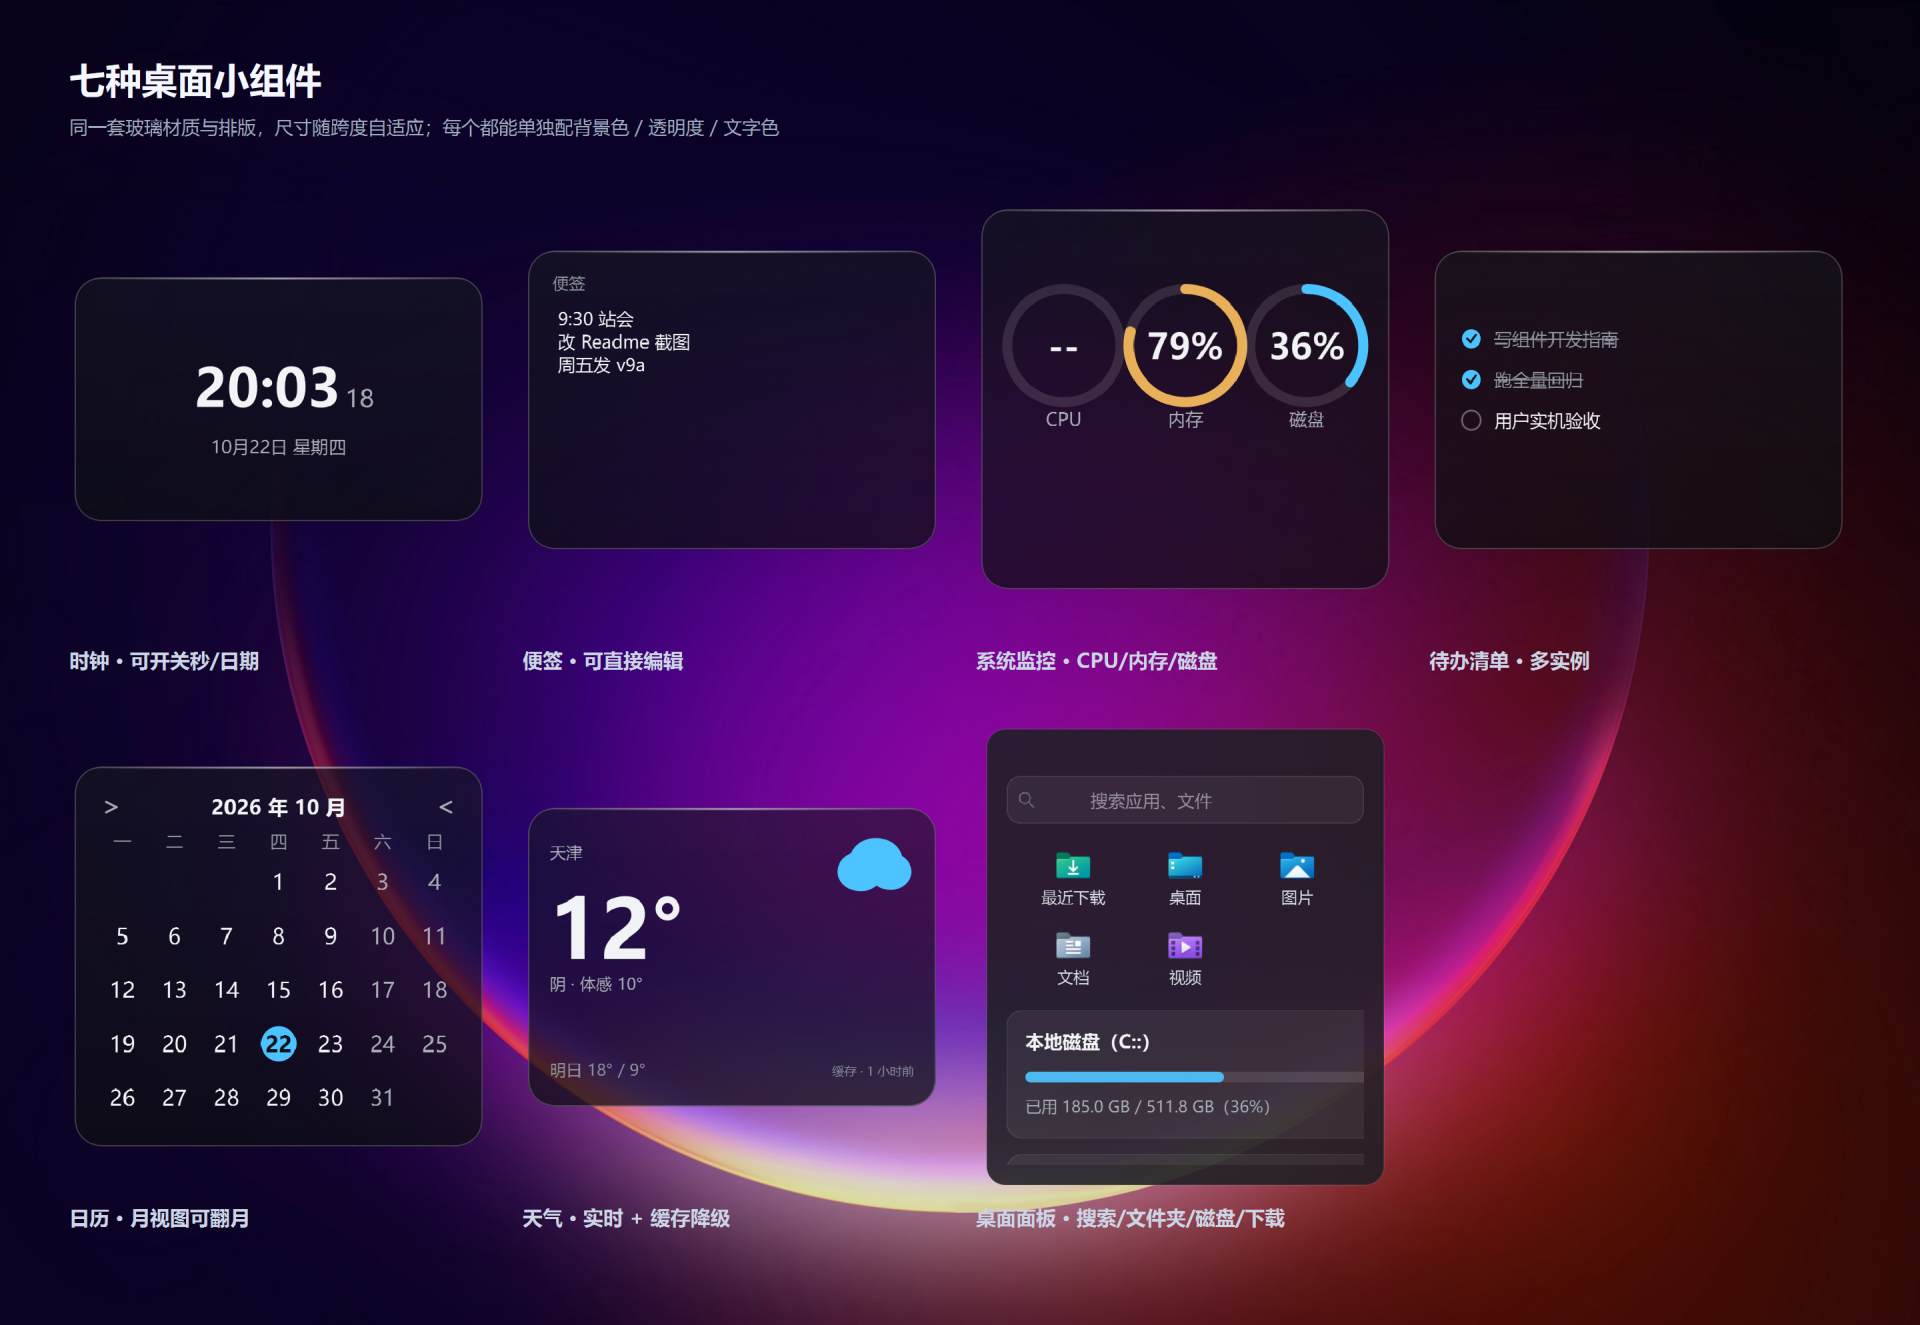
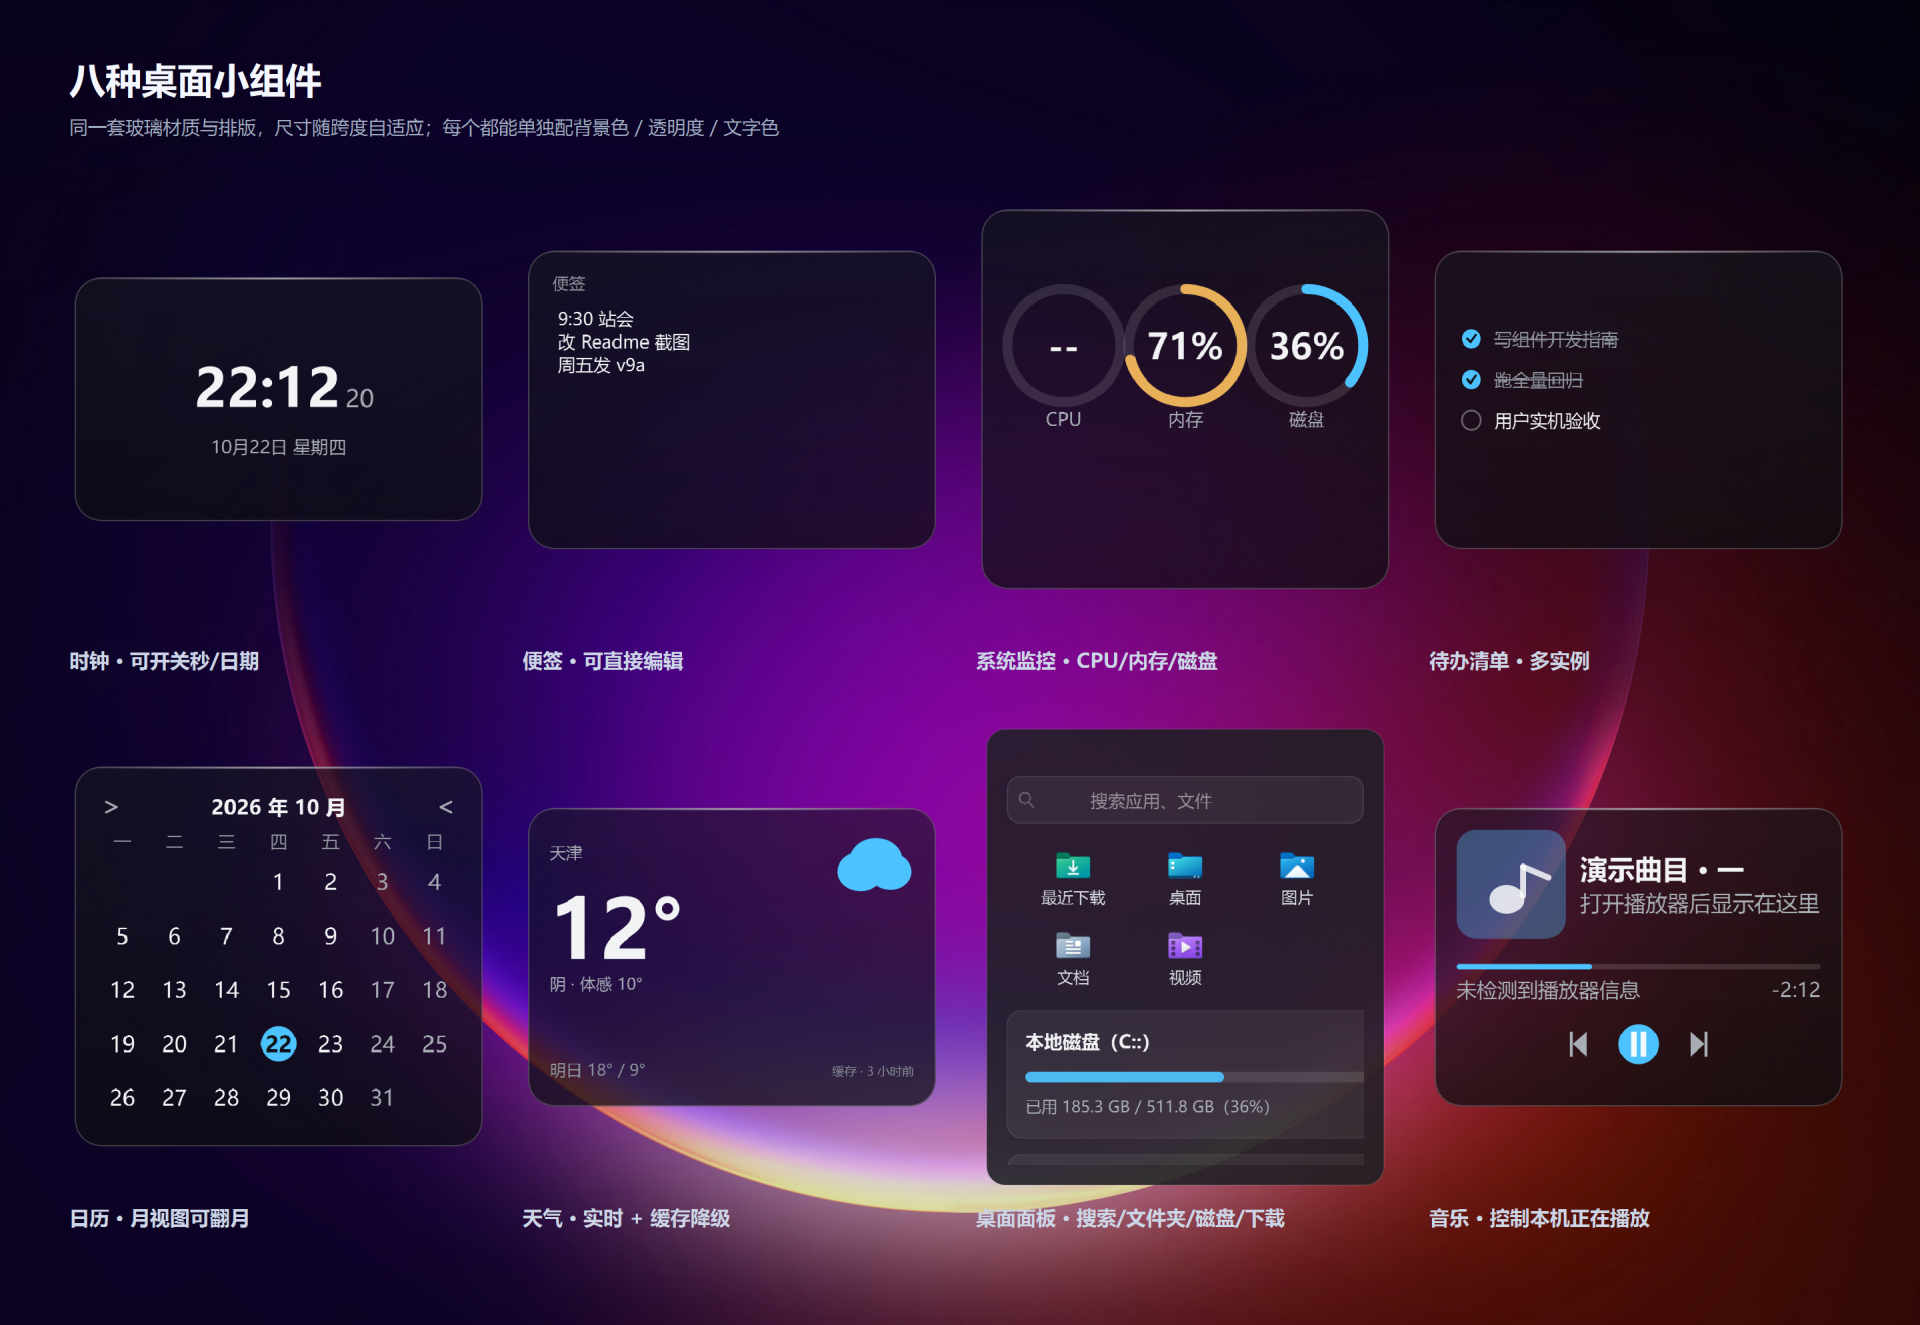
docs(v10-C2): 台账与八格全家福——SMTC 判死写进规格，02 图补第 8 格
- 指导文档 §4.2：落地记录（三轮探针表 / C 档决策 / 分层 / 三处偏离）
- 实施计划 C2 卡：落地记录 + 风险表标注「已发生」
- DEVLOG §5 续七 + 坑 #114（WinRT 槽位错 = 进程级 AV）/ #115（行高必须由 layout 交付）
- HANDOVER 页首 + README 中英：八种小组件、84 测试、目录树补 music/media_session
- 02-widgets.png 重出（4×2 满版，音乐补 78s 进度）

diff --git a/scripts/check_docs.py b/scripts/check_docs.py
@@ -246,7 +246,6 @@ TEST_REF_RX = re.compile(r"tests/(test_[A-Za-z0-9_]+\.py)")
 PLANNED_TESTS = {
     "test_i18n.py": "D3 英文适配",
     "test_storage_paths.py": "D1 改名数据目录",
-    "test_widget_music.py": "C2 音乐组件",
 }
 
 

diff --git a/README_EN.md b/README_EN.md
@@ -26,7 +26,7 @@ Despite the name, this is **far past the prototype stage**: installer, tray resi
 | 🤏 Slide-to-rearrange | Neighboring icons elastically slide aside while you drag (true spring physics curve), snap precisely to the target cell, and slide back on cancel |
 | 📂 Drag-to-merge | Drag an icon onto another to merge into a folder; folder popup uses liquid-glass material with an emergence open/close animation; members can be dragged out / removed |
 | 🖱 Batch operations | Rubber-band multi-select + whole-group dragging |
-| 🧩 Desktop widgets | Clock / Sticky notes (editable) / Desktop panel (search · quick folders · disks · recent downloads · weather) / **System monitor** (CPU · memory · disk) / **To-do list** (multi-instance) / **Calendar** (month view with remembered month) / **Weather** (live with cache fallback); supports **anchored (non-floating)** mode where widgets join the grid as first-class citizens, with drag-resize and icon mutual displacement |
+| 🧩 Desktop widgets | Clock / Sticky notes (editable) / Desktop panel (search · quick folders · disks · recent downloads · weather) / **System monitor** (CPU · memory · disk) / **To-do list** (multi-instance) / **Calendar** (month view with remembered month) / **Weather** (live with cache fallback) / **Music** (controls whatever is playing on this PC, player-agnostic); supports **anchored (non-floating)** mode where widgets join the grid as first-class citizens, with drag-resize and icon mutual displacement |
 | 🧩 Widget library | A page inside the settings panel: browse widgets by category, search, and see four-state cards (not added / hidden / on desktop / added) with **live previews rendered by the very same `draw()`** used on the desktop; import or uninstall third-party widget zips, and appearance edits apply immediately |
 | 🔀 Two modes | **Organizer mode** (native icons hidden, desktop rendering taken over) / **native mode** (free-floating): one-click switch, and each mode **keeps its own layout** independently |
 | 🚀 Dock | A row of app shortcuts, bottom by default (top / left / right, toggleable): spring-scaled hover, drop to append, drag to reorder, drag out to remove; the **grid automatically yields the strip and recomputes columns/rows** |
@@ -41,9 +41,9 @@ Despite the name, this is **far past the prototype stage**: installer, tray resi
 
 > Every image below is rendered off-screen from the **real widgets** by [`tools/shot_readme.py`](tools/shot_readme.py) — the grid, the glass widgets and the context menus all go through the same drawing code the product runs. No mock-ups. The two animated clips are recorded frame by frame from that same material by [`tools/make_readme_anim.py`](tools/make_readme_anim.py) (HTML timeline + headless screenshots + Pillow).
 
-**Seven desktop widgets**: clock / sticky notes / system monitor / to-do / calendar / weather / desktop panel — one glass material and one typographic scale, sized by grid span
+**Eight desktop widgets**: clock / sticky notes / system monitor / to-do / calendar / weather / desktop panel / music — one glass material and one typographic scale, sized by grid span
 
-<p align="center"><img src="docs/images/02-widgets.png" width="900" alt="The seven desktop widgets"></p>
+<p align="center"><img src="docs/images/02-widgets.png" width="900" alt="The eight desktop widgets"></p>
 
 **Per-widget appearance**: the same clock in three skins. Background colour, opacity, text colour, accent colour and corner radius are all configurable; leave a field empty to follow the theme. The fields apply to every widget, including third-party plugins
 
@@ -138,7 +138,7 @@ PhoneDesktopForWindow/
 │   │   ├── folder_popup.py / folder_tint.py    # Folder popup & icon tint
 │   │   ├── widget_base.py / widget_layer.py    # Widget base & registry
 │   │   ├── dock.py             # Dock (pure inset/hit_index + DockWindow)
-│   │   └── widgets/           # Built-in widgets, one directory per widget (clock/notes/panel/monitor/todo/calendar/weather)
+│   │   └── widgets/           # Built-in widgets, one directory per widget (clock/notes/panel/monitor/todo/calendar/weather/music)
 │   └── Infrastructure
 │       ├── storage.py / paths.py / version.py
 │       ├── appsource.py / desktop_watch.py / shell_new.py
@@ -149,7 +149,7 @@ PhoneDesktopForWindow/
 │   ├── build_portable.ps1   # PyInstaller onedir → zip (needs pwsh 7)
 │   ├── installer.iss        # Inno Setup 6 installer (must be UTF-8 BOM)
 │   └── check_docs.py        # Docs consistency check (dead links / duplicate sections / doc-vs-code drift)
-├── tests/                   # 83 standalone scripts (no pytest); judge by exit code
+├── tests/                   # 84 standalone scripts (no pytest); judge by exit code
 │   ├── smoke_test.py        # Headless logic regression (storage/clone/layout)
 │   └── test_*.py            # One per contract: reflow, dual mode, hit-testing, popup, widgets…
 └── tools/                   # Runtime probes probe*.py + packaged-build verification verify_*.py
@@ -161,7 +161,7 @@ PhoneDesktopForWindow/
 # Headless logic regression
 python tests/smoke_test.py
 
-# Full suite: 82 standalone scripts, no pytest; judge by exit code only
+# Full suite: 84 standalone scripts, no pytest; judge by exit code only
 Get-ChildItem tests/test_*.py | ForEach-Object {
     python $_.FullName
     if ($LASTEXITCODE -ne 0) { "FAILED: $($_.Name)" }

diff --git a/README.md b/README.md
@@ -26,7 +26,7 @@
 | 🤏 滑动让位 | 拖动图标时相邻图标弹性滑动让位（真弹簧物理曲线），落点精确到目标格，可取消滑回 |
 | 📂 拖拽合并 | 图标拖到图标上悬停即合并成文件夹；文件夹弹窗为液态玻璃材质 + 涌现开合动画，成员可拖出/移出 |
 | 🖱 批量操作 | 橡皮筋框选 + 多选整体拖动 |
-| 🧩 桌面小组件 | 时钟 / 便签（可编辑）/ 桌面面板（搜索 · 快捷文件夹 · 磁盘 · 最近下载 · 天气）/ **系统监控**（CPU · 内存 · 磁盘）/ **待办清单**（可多实例）/ **日历**（月视图，翻月记忆）/ **天气**（实时 + 缓存降级）；支持**锚定（非悬浮）**模式，融入网格成为一等公民，可拖拽缩放、与图标互相让位 |
+| 🧩 桌面小组件 | 时钟 / 便签（可编辑）/ 桌面面板（搜索 · 快捷文件夹 · 磁盘 · 最近下载 · 天气）/ **系统监控**（CPU · 内存 · 磁盘）/ **待办清单**（可多实例）/ **日历**（月视图，翻月记忆）/ **天气**（实时 + 缓存降级）/ **音乐**（控制本机正在播放，不挑播放器）；支持**锚定（非悬浮）**模式，融入网格成为一等公民，可拖拽缩放、与图标互相让位 |
 | 🧩 组件库 | 设置面板里的独立分页：按分类浏览、搜索、四态卡片（未添加 / 已隐藏 / 显示中 / 已添加）与**实时预览**（预览与桌面渲染同一个 `draw()`）；支持导入 / 卸载第三方组件 zip，改了外观也能立即生效 |
 | 🔀 双模式 | **整理模式**（隐藏原生图标、接管桌面渲染）/ **原生模式**（无界自由摆放）：一键切换，两种布局**各自独立保存**，互不清空 |
 | 🚀 Dock 栏 | 底部一排应用快捷方式（可切顶部/左侧/右侧、可关闭）：hover 弹簧放大、拖入追加、拖动排序、拖出移除；开启后**网格自动让出条带并重算行列** |
@@ -41,9 +41,9 @@
 
 > 下面每一张都由 [`tools/shot_readme.py`](tools/shot_readme.py) 从**真实控件离屏渲染**生成——桌面网格、玻璃组件、右键菜单走的是产品里同一份绘制代码，不是设计稿；两段动图由 [`tools/make_readme_anim.py`](tools/make_readme_anim.py) 用同一批素材逐帧录制（HTML 时间轴 + headless 截图 + Pillow 合成）。
 
-**七种小组件**：时钟 / 便签 / 系统监控 / 待办清单 / 日历 / 天气 / 桌面面板，同一套玻璃材质与排版，尺寸跟着跨度自适应
+**八种小组件**：时钟 / 便签 / 系统监控 / 待办清单 / 日历 / 天气 / 桌面面板 / 音乐，同一套玻璃材质与排版，尺寸跟着跨度自适应
 
-<p align="center"><img src="docs/images/02-widgets.png" width="900" alt="七种桌面小组件"></p>
+<p align="center"><img src="docs/images/02-widgets.png" width="900" alt="八种桌面小组件"></p>
 
 **外观自定义**：同一个时钟三种皮肤。背景色、不透明度、文字色、强调色、圆角都能单独调，留空即跟随主题；字段对所有组件统一生效（包括自己写的插件组件）
 
@@ -138,9 +138,10 @@ PhoneDesktopForWindow/
 │   │   ├── folder_popup.py / folder_tint.py    # 文件夹弹窗与图标底色
 │   │   ├── widget_base.py / widget_layer.py    # 组件基类与注册
 │   │   ├── dock.py             # Dock 栏（纯函数 inset/hit_index + DockWindow）
-│   │   └── widgets/           # 内置组件一组件一目录（clock/notes/panel/monitor/todo/calendar/weather）
+│   │   └── widgets/           # 内置组件一组件一目录（clock/notes/panel/monitor/todo/calendar/weather/music）
 │   └── 基础设施
 │       ├── storage.py / paths.py / version.py
+│       ├── media_session.py    # 播放会话抽象（媒体键 + 演示态降级）
 │       ├── appsource.py / desktop_watch.py / shell_new.py
 │       ├── effects.py / theme.py
 │       └── settings_dialog.py / add_apps_dialog.py / tray.py / autostart.py
@@ -149,7 +150,7 @@ PhoneDesktopForWindow/
 │   ├── build_portable.ps1   # PyInstaller onedir → zip（需 pwsh 7）
 │   ├── installer.iss        # Inno Setup 6 安装包（必须 UTF-8 BOM）
 │   └── check_docs.py        # 文档一致性自检（死链/重复章节/文档与代码数值漂移）
-├── tests/                   # 83 个独立可跑脚本（无 pytest），判据看退出码
+├── tests/                   # 84 个独立可跑脚本（无 pytest），判据看退出码
 │   ├── smoke_test.py        # 无头逻辑回归（存储/克隆/布局）
 │   └── test_*.py            # 每条契约一份：让位引擎、双模式、命中、弹窗、组件…
 └── tools/                   # 运行态探针 probe*.py + 打包验证 verify_*.py
@@ -161,7 +162,7 @@ PhoneDesktopForWindow/
 # 无头逻辑回归
 python tests/smoke_test.py
 
-# 全量单测：49 个独立脚本，无 pytest；判据只看退出码
+# 全量单测：84 个独立脚本，无 pytest；判据只看退出码
 Get-ChildItem tests/test_*.py | ForEach-Object {
     python $_.FullName
     if ($LASTEXITCODE -ne 0) { "FAILED: $($_.Name)" }
